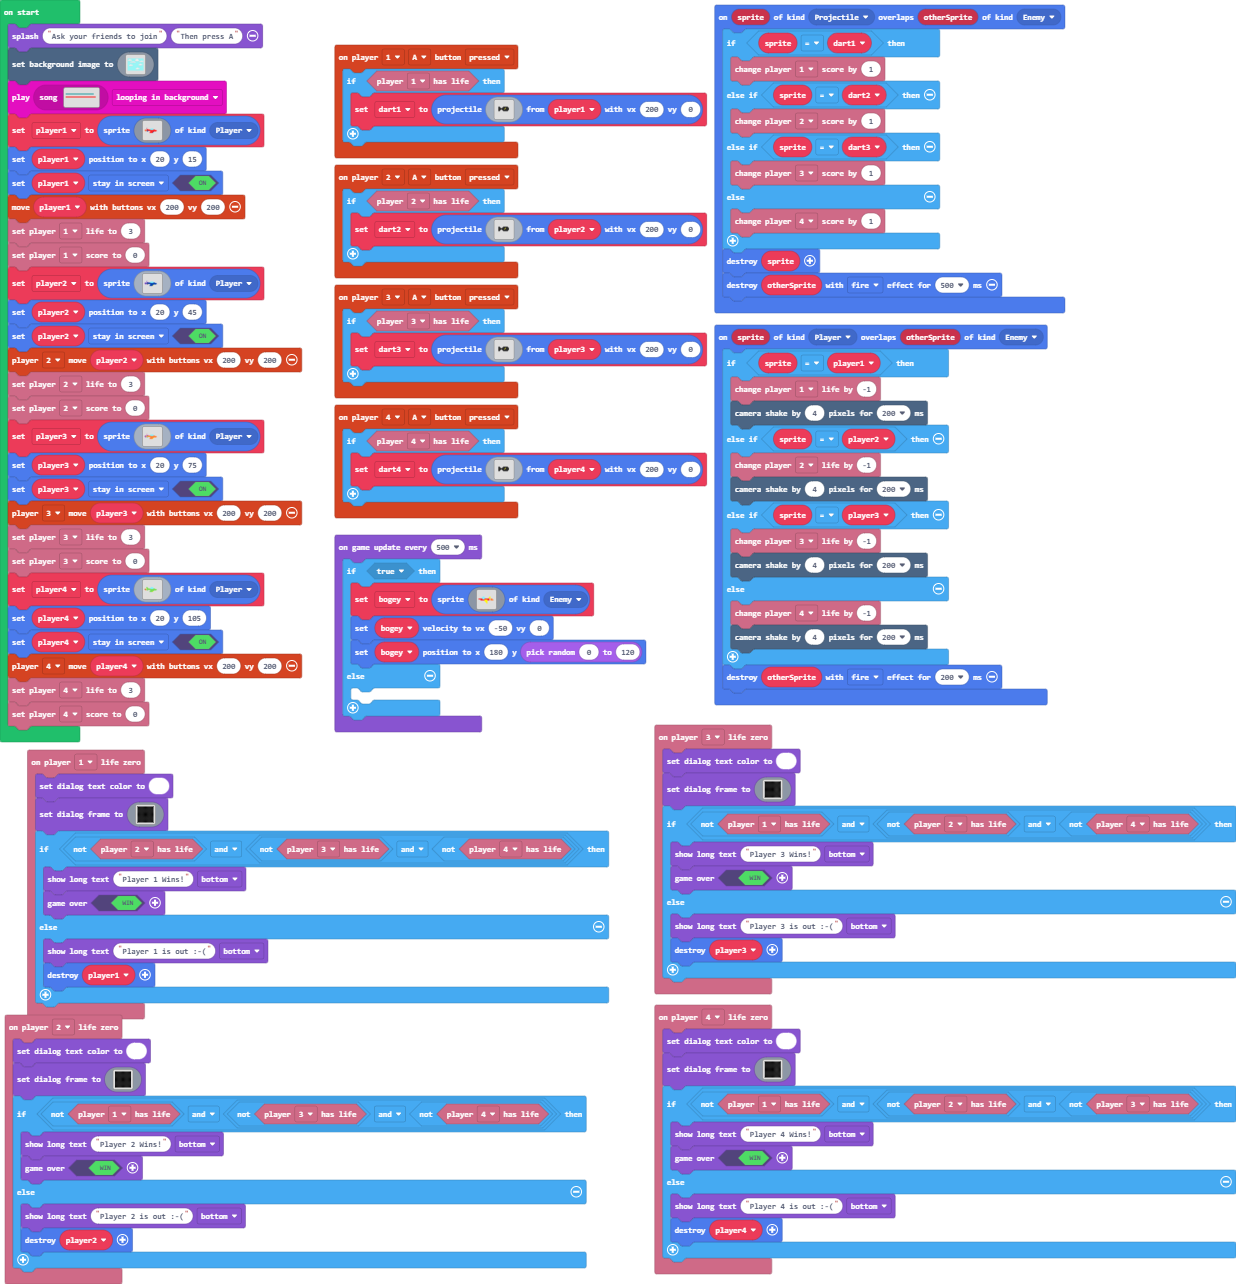
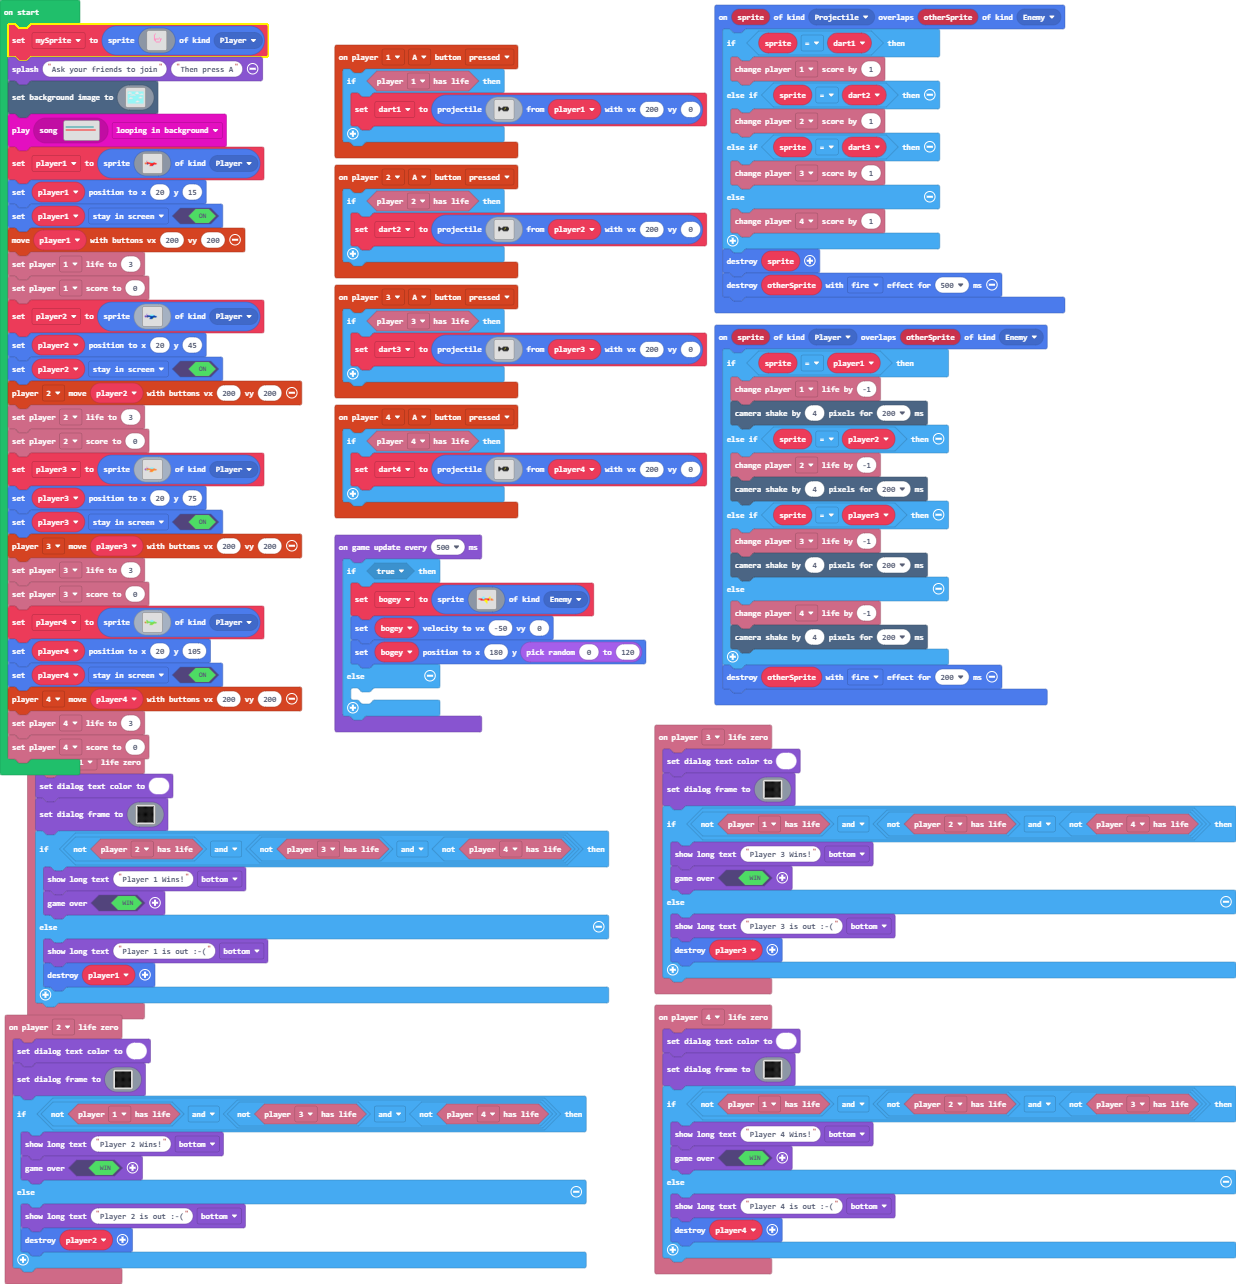
Update main.blocks, main.ts

Changed region(s): [[0.0, 0.0, 0.246, 0.6231]]

diff --git a/main.ts b/main.ts
@@ -248,6 +248,24 @@ let player4: Sprite = null
 let player3: Sprite = null
 let player2: Sprite = null
 let player1: Sprite = null
+let mySprite = sprites.create(img`
+    . . . . . . . . . . . . . . . . 
+    . . . . . . 3 . . . . . . . . . 
+    . . . . . 3 . . . . . . . . . . 
+    . . . . . 3 . . . . . . . . . . 
+    . . . . . 3 . . . . . . . . . . 
+    . . . . . 3 . . . . 3 . . . . . 
+    . . . . . 3 3 3 3 3 . 3 3 . . . 
+    . . . . . 3 3 . . . . 3 . . . . 
+    . . . . . . 3 . . . . 3 . . . . 
+    . . . . . . . 3 3 3 3 . . . . . 
+    . . . . . . . . . . . . . . . . 
+    . . . . . . . . . . . . . . . . 
+    . . . . . . . . . . . . . . . . 
+    . . . . . . . . . . . . . . . . 
+    . . . . . . . . . . . . . . . . 
+    . . . . . . . . . . . . . . . . 
+    `, SpriteKind.Player)
 game.splash("Ask your friends to join", "Then press A")
 scene.setBackgroundImage(img`
     9999999999999999999999999999999999999999999999999999999999999999999999999999999999999999999999999999999999999999999999999999999999999999999999999999999999999999
